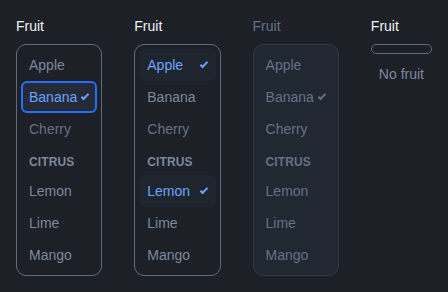
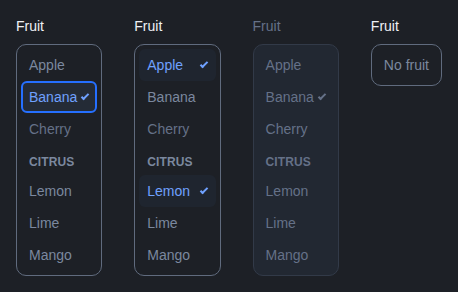
fix(styles): an empty Listbox holds its empty text inside its box
The empty part sits outside the list, which a listbox may only fill with
options, so an empty Listbox drew a 10-pixel box with "No fruit" under
it. While the list is empty, the box (the list, or the scroller while
virtualized) and the empty part now take the same cell of the column,
under the label if there is one (`@uni-labelled`), so the box grows to
hold the text, inset as an option is. A click on the text reaches the
list. Browser tests measure it labelled and virtualized without a label;
the Listbox references changed only there.

diff --git a/packages/styles/src/__snapshots__/listbox.css b/packages/styles/src/__snapshots__/listbox.css
@@ -73,7 +73,7 @@
   [data-uni="listbox"]:where(:not([data-disabled])) [data-element="GroupLabel"]:where(:not([data-uni="listbox"] [data-uni]:not([data-uni="listbox"]) *)) { color: var(--uni-text-soft-color); --current-color: var(--uni-text-soft-color); }
 }
 
-[data-uni="listbox"] [data-element="Empty"]:where(:not([data-uni="listbox"] [data-uni]:not([data-uni="listbox"]) *)) { margin: 0px; padding: calc(calc(var(--uni-control-height) - var(--uni-line-height)) / 2) var(--uni-gap); font-size: var(--uni-font-size); line-height: var(--uni-line-height); }
+[data-uni="listbox"] [data-element="Empty"]:where(:not([data-uni="listbox"] [data-uni]:not([data-uni="listbox"]) *)) { margin: calc(calc(0.5 * var(--uni-gap)) + var(--uni-border-width)); padding: calc(calc(var(--uni-control-height) - var(--uni-line-height)) / 2) var(--uni-gap); font-size: var(--uni-font-size); line-height: var(--uni-line-height); pointer-events: none; }
 
 @media (not (forced-colors: active)) {
   [data-uni="listbox"]:where(:not([data-disabled])) [data-element="Empty"]:where(:not([data-uni="listbox"] [data-uni]:not([data-uni="listbox"]) *)) { color: var(--uni-text-soft-color); --current-color: var(--uni-text-soft-color); }
@@ -101,6 +101,10 @@
   [data-uni="listbox"]:where([data-focus-visible][data-virtualized]:not([data-invalid]):has([data-element="List"][tabindex="0"])) [data-element="Scroller"]:where(:not([data-uni="listbox"] [data-uni]:not([data-uni="listbox"]) *)) { outline: var(--uni-outline-width) solid var(--uni-accent-outline-color); outline-offset: var(--uni-border-width); }
 }
 
+[data-uni="listbox"]:where([data-empty]) [data-element="Scroller"]:where(:not([data-uni="listbox"] [data-uni]:not([data-uni="listbox"]) *)) { grid-column: 1; }
+
+[data-uni="listbox"]:where([data-empty]:not(:has(> [data-element="Label"]))) [data-element="Scroller"]:where(:not([data-uni="listbox"] [data-uni]:not([data-uni="listbox"]) *)) { grid-row: 1; }
+
 [data-uni="listbox"]:where([data-virtualized]) [data-element="List"]:where(:not([data-uni="listbox"] [data-uni]:not([data-uni="listbox"]) *)) { padding: 0px; }
 
 [data-uni="listbox"]:where([data-disabled]:not([data-virtualized])) [data-element="List"]:where(:not([data-uni="listbox"] [data-uni]:not([data-uni="listbox"]) *)) { background-color: var(--uni-disabled-surface-color); border: var(--uni-border-width) solid var(--uni-disabled-border-color); }
@@ -110,6 +114,10 @@
 @media (not (forced-colors: active)) {
   [data-uni="listbox"]:where([data-focus-visible]:not([data-invalid]):not([data-virtualized]):has([data-element="List"][tabindex="0"])) [data-element="List"]:where(:not([data-uni="listbox"] [data-uni]:not([data-uni="listbox"]) *)) { outline: var(--uni-outline-width) solid var(--uni-accent-outline-color); outline-offset: var(--uni-border-width); }
 }
+
+[data-uni="listbox"]:where([data-empty]) [data-element="List"]:where(:not([data-uni="listbox"] [data-uni]:not([data-uni="listbox"]) *)) { grid-column: 1; }
+
+[data-uni="listbox"]:where([data-empty]:not(:has(> [data-element="Label"]))) [data-element="List"]:where(:not([data-uni="listbox"] [data-uni]:not([data-uni="listbox"]) *)) { grid-row: 1; }
 
 [data-uni="listbox"] [data-element="Option"]:where(:not([data-uni="listbox"] [data-uni]:not([data-uni="listbox"]) *)):where(:not([data-disabled]):not([data-selected]):not([data-pressed])[data-focused]), [data-uni="listbox"]:where([data-readonly]) [data-element="Option"]:where(:not([data-uni="listbox"] [data-uni]:not([data-uni="listbox"]) *)):where(:not([data-disabled]):not([data-selected])[data-pressed][data-focused]), [data-uni="listbox"]:where(:not([data-readonly])) [data-element="Option"]:where(:not([data-uni="listbox"] [data-uni]:not([data-uni="listbox"]) *)):where(:not([data-disabled]):not([data-focused]):not([data-pressed]):not([data-selected])[data-hovered]) { background-color: var(--uni-surface-hover-color); }
 
@@ -133,6 +141,10 @@
   [data-uni="listbox"]:where([data-disabled]) [data-element="Empty"]:where(:not([data-uni="listbox"] [data-uni]:not([data-uni="listbox"]) *)) { color: var(--uni-disabled-text-color); --current-color: var(--uni-disabled-text-color); }
 }
 
+[data-uni="listbox"]:where([data-empty]) [data-element="Empty"]:where(:not([data-uni="listbox"] [data-uni]:not([data-uni="listbox"]) *)) { grid-column: 1; }
+
+[data-uni="listbox"]:where([data-empty]:not(:has(> [data-element="Label"]))) [data-element="Empty"]:where(:not([data-uni="listbox"] [data-uni]:not([data-uni="listbox"]) *)) { grid-row: 1; }
+
 @media (forced-colors: active) {
   [data-uni="listbox"]:where(:not([data-disabled])) [data-element="Label"]:where(:not([data-uni="listbox"] [data-uni]:not([data-uni="listbox"]) *)) { color: CanvasText; --current-color: CanvasText; }
 }
@@ -145,9 +157,13 @@
   [data-uni="listbox"]:where([data-focus-visible][data-invalid][data-virtualized]:has([data-element="List"][tabindex="0"])) [data-element="Scroller"]:where(:not([data-uni="listbox"] [data-uni]:not([data-uni="listbox"]) *)) { outline: var(--uni-outline-width) solid var(--uni-danger-outline-color); outline-offset: var(--uni-border-width); }
 }
 
+[data-uni="listbox"]:where([data-empty]:has(> [data-element="Label"])) [data-element="Scroller"]:where(:not([data-uni="listbox"] [data-uni]:not([data-uni="listbox"]) *)) { grid-row: 2; }
+
 @media (not (forced-colors: active)) {
   [data-uni="listbox"]:where([data-focus-visible][data-invalid]:not([data-virtualized]):has([data-element="List"][tabindex="0"])) [data-element="List"]:where(:not([data-uni="listbox"] [data-uni]:not([data-uni="listbox"]) *)) { outline: var(--uni-outline-width) solid var(--uni-danger-outline-color); outline-offset: var(--uni-border-width); }
 }
+
+[data-uni="listbox"]:where([data-empty]:has(> [data-element="Label"])) [data-element="List"]:where(:not([data-uni="listbox"] [data-uni]:not([data-uni="listbox"]) *)) { grid-row: 2; }
 
 [data-uni="listbox"]:where(:not([data-readonly])) [data-element="Option"]:where(:not([data-uni="listbox"] [data-uni]:not([data-uni="listbox"]) *)):where(:not([data-disabled]):not([data-selected])[data-pressed]) { background-color: var(--uni-surface-pressed-color); }
 
@@ -166,6 +182,8 @@
 @media (forced-colors: active) {
   [data-uni="listbox"]:where(:not([data-disabled])) [data-element="Empty"]:where(:not([data-uni="listbox"] [data-uni]:not([data-uni="listbox"]) *)) { color: CanvasText; --current-color: CanvasText; }
 }
+
+[data-uni="listbox"]:where([data-empty]:has(> [data-element="Label"])) [data-element="Empty"]:where(:not([data-uni="listbox"] [data-uni]:not([data-uni="listbox"]) *)) { grid-row: 2; }
 
 @media (forced-colors: active) {
   [data-uni="listbox"]:where([data-disabled]) [data-element="Label"]:where(:not([data-uni="listbox"] [data-uni]:not([data-uni="listbox"]) *)) { color: GrayText; --current-color: GrayText; }

diff --git a/packages/styles/src/pickers.browser.test.tsx b/packages/styles/src/pickers.browser.test.tsx
@@ -380,6 +380,21 @@ describe.each([
       expect(ring(part(root, 'List')).offset).toBe(1);
     });
 
+    test('an empty list holds its text in an option’s place, under the label', async () => {
+      const root = await adapter.listbox({ isEmpty: true });
+      const list = box(part(root, 'List'));
+      const text = box(part(root, 'Empty'));
+      // Inside the list's padding and border, 4 and 1 pixels.
+      expect(text.top - list.top).toBeCloseTo(5, 0);
+      expect(list.bottom - text.bottom).toBeCloseTo(5, 0);
+      expect(text.left - list.left).toBeCloseTo(5, 0);
+      expect(list.right - text.right).toBeCloseTo(5, 0);
+      expect(list.top - box(part(root, 'Label')).bottom).toBeCloseTo(8, 0);
+      // A click on the text reaches the list.
+      await pointer.click(part(root, 'Empty'));
+      expect(document.activeElement).toBe(part(root, 'List'));
+    });
+
     test('a disabled option takes the disabled text and no fill', async () => {
       const root = await adapter.listbox();
       const cherry = option(root, 'cherry');
@@ -570,9 +585,10 @@ describe('a virtualized listbox', () => {
     ));
   }
 
-  function VirtualListbox() {
+  /** With no label, so the list's box opens the column. */
+  function VirtualListbox(props: { items?: readonly Item[] }) {
     const list = useComponent(listbox, {
-      items: MANY,
+      items: props.items ?? MANY,
       virtualizer,
       itemSize: 32,
     });
@@ -583,6 +599,7 @@ describe('a virtualized listbox', () => {
             <Rows list={list} />
           </div>
         </div>
+        <p {...list.parts.empty}>No items</p>
       </div>
     );
   }
@@ -603,5 +620,15 @@ describe('a virtualized listbox', () => {
     expect(first.left - box(scroller).left).toBeCloseTo(5, 0);
     expect(first.width).toBeCloseTo(box(list).width, 0);
     expect(first.height).toBeCloseTo(32, 0);
+  });
+
+  test('empty, its text is inside the scroller, which opens the column', async () => {
+    await mountReact(<VirtualListbox items={[]} />);
+    const root = rootOf('listbox');
+    const scroller = box(part(root, 'Scroller'));
+    const text = box(part(root, 'Empty'));
+    expect(scroller.top).toBeCloseTo(box(root).top, 0);
+    expect(text.top - scroller.top).toBeCloseTo(5, 0);
+    expect(scroller.bottom - text.bottom).toBeCloseTo(5, 0);
   });
 });

diff --git a/packages/styles/src/components/listbox.ts b/packages/styles/src/components/listbox.ts
@@ -58,6 +58,18 @@ function onlyWhen(state: string, styles: Styles): Styles {
 }
 
 /**
+ * While the list is empty, the empty part shows inside its box, in an
+ * option's place: the box (the list, or the scroller while virtualized)
+ * and the empty part take the same cell of the column, under the label if
+ * there is one, so the box grows to hold the text. A click on the text
+ * reaches the list, which then takes focus.
+ */
+const emptyCellStyles = {
+  gridColumn: { '': false, empty: '1' },
+  gridRow: { '': false, empty: '1', 'empty & @uni-labelled': '2' },
+} satisfies Styles;
+
+/**
  * Listbox: the shared column (`../shared/field.ts`) with the list as its
  * box, and the shared options (`../shared/option.ts`). Virtualized, the
  * scroller is the box, and the list inside it only holds the options
@@ -74,10 +86,14 @@ export const listboxStyles: Styles = {
   Scroller: {
     // eslint-disable-next-line tasty/no-style-spread -- the list's box, here while virtualized
     ...onlyWhen('virtualized', listBoxStyles),
+    // eslint-disable-next-line tasty/no-style-spread -- the empty part's cell
+    ...emptyCellStyles,
   },
   List: {
     // eslint-disable-next-line tasty/no-style-spread -- the list's box, on the scroller while virtualized
     ...onlyWhen('!virtualized', listBoxStyles),
+    // eslint-disable-next-line tasty/no-style-spread -- the empty part's cell
+    ...emptyCellStyles,
     display: 'block',
     margin: 0,
     padding: { '': '.5x', virtualized: 0 },
@@ -85,4 +101,14 @@ export const listboxStyles: Styles = {
   },
 
   ...optionPartStyles,
+
+  Empty: {
+    // eslint-disable-next-line tasty/no-style-spread -- the shared empty state
+    ...optionPartStyles.Empty,
+    // eslint-disable-next-line tasty/no-style-spread -- the box's cell
+    ...emptyCellStyles,
+    // Inside the box's padding and border.
+    margin: '(.5x + 1bw)',
+    pointerEvents: 'none',
+  },
 };

diff --git a/packages/styles/src/tokens.ts b/packages/styles/src/tokens.ts
@@ -62,6 +62,8 @@ export const STATES = {
   '@uni-list-tab-stop': ':has(List[tabindex="0"])',
   // An overlay with an arrow, which needs its overflow.
   '@uni-arrowed': ':has(> Arrow)',
+  // A field with its own label, over what it names.
+  '@uni-labelled': ':has(> Label)',
   '@uni-reduced-motion': '@media(prefers-reduced-motion: reduce)',
   '@uni-forced-colors': '@media(forced-colors: active)',
 } as const;

diff --git a/packages/styles/spec.md b/packages/styles/spec.md
@@ -557,24 +557,24 @@ logical properties, `color-mix()`, `oklch()`, `prefers-color-scheme`,
 
 All 16, each in its own file and stylesheet:
 
-| Component     | Parts styled                                                                                                      | Notes                                                                                                                                                                                                                                                                                                                                                                                                                                                                                                                     |
-| ------------- | ----------------------------------------------------------------------------------------------------------------- | ------------------------------------------------------------------------------------------------------------------------------------------------------------------------------------------------------------------------------------------------------------------------------------------------------------------------------------------------------------------------------------------------------------------------------------------------------------------------------------------------------------------------- |
-| Button        | root                                                                                                              | `data-variant`: `secondary` (default), `primary`, `quiet`, `danger` (Resolved questions 10).                                                                                                                                                                                                                                                                                                                                                                                                                              |
-| ToggleButton  | root                                                                                                              | Button's look; `selected` takes the accent fill whatever the variant, where UI Kit's light tint would show it mostly by hue (WCAG 1.4.1).                                                                                                                                                                                                                                                                                                                                                                                 |
-| Checkbox      | root, wrapper, input, indicator, label, description, error                                                        | The input is laid over the wrapper (or a `label` root), invisible and clickable, as in the Styling guide. Check and dash drawn on `::before`.                                                                                                                                                                                                                                                                                                                                                                             |
-| Switch        | as Checkbox                                                                                                       | The indicator is UI Kit's 32 by 20 track; your `Thumb` element, a 12-pixel dot, slides inside it by logical inset, so it mirrors in right-to-left text.                                                                                                                                                                                                                                                                                                                                                                   |
-| Radio         | root, wrapper, input, indicator, label, description                                                               | UI Kit's 16-pixel circle, with an 8-pixel dot in the accent text color while selected.                                                                                                                                                                                                                                                                                                                                                                                                                                    |
-| CheckboxGroup | root, label, description, error                                                                                   | Stacks the items; `data-orientation="horizontal"`, which the consumer writes on this group, wraps them in a row.                                                                                                                                                                                                                                                                                                                                                                                                          |
-| RadioGroup    | root, label, description, error                                                                                   | As CheckboxGroup; UniAria writes `data-orientation` from `orientation`.                                                                                                                                                                                                                                                                                                                                                                                                                                                   |
-| Field         | root, label, control, description, error                                                                          | The label, description and error fragment every field shares. Only a native text control (an `input` you type in, a `textarea`, a `select`) takes the input box.                                                                                                                                                                                                                                                                                                                                                          |
-| TextField     | root, wrapper, label, input, description, error                                                                   | The wrapper is the box: border, a ring on any focus within it, the `invalid` border, 7 pixels inside its border and 4 between what it holds, so your prefix or suffix sits beside the input. The input is bare inside it; without a wrapper there is no box (Field draws one around a native input).                                                                                                                                                                                                                      |
-| NumberField   | root, wrapper, label, input, increment, decrement, description, error                                             | TextField's box, with the number at the input's end. The steppers are quiet 24-pixel buttons beside the input in markup order, where UI Kit's stacked half-height ones would fall below the 24-pixel target; at the box's edge, as far from it as from the top and bottom.                                                                                                                                                                                                                                                |
-| Listbox       | root, label, scroller, list, option, optionLabel, optionDescription, group, groupLabel, empty, description, error | The list is a box like a field's, the scroller instead while virtualized, with a ring only while the list itself has focus. Options, shared with Select and Combobox: 32-pixel rows of soft text, `#uni-surface-hover` hovered or focused, pressed darker, the accent theme and a check at the end once selected (UI Kit's neutral selected fill is alpha, Web platform baseline), a ring inside on `focus-visible`, no hover or press while read-only, no `display`, no margins.                                         |
-| Select        | root, label, trigger, value, popover, arrow, scroller, list, the option parts, empty, close, description, error   | The trigger is a field box with a chevron, lighter hovered, its ring on `focus-visible`; `placeholder` dims the value. The popup: UI Kit's surface, `min-inline-size: var(--anchor-width)`, capped by `--available-width` and `--available-height` and at UI Kit's half viewport, a gap's margin, its list scrolling inside, `display` only while open or exiting. `close` stays visually hidden until it has focus. The popup opens with the overlay motion (Overlay motion).                                            |
-| Combobox      | root, label, anchor, input, button, popover, arrow, scroller, list, the option parts, empty, description, error   | The anchor is TextField's box around the input and the button, which is NumberField's quiet button drawing a chevron; the popup as Select's.                                                                                                                                                                                                                                                                                                                                                                              |
-| Dialog        | trigger, root, `::backdrop`, title, description, close                                                            | UI Kit's modal: a surface panel 22.5rem wide, from 18rem, within the viewport less 32 pixels a side, `fit-content` high and scrolling inside, its parts a column 12 pixels apart and in from its edge, an 18/24 title, a transparent border for forced colors; `display` only while open or exiting. The trigger and close take Button's look, close on its own state. It fades in and drops 24 pixels into place from `entering`, back on `exiting`, with the backdrop fading, in `$uni-dialog-transition`.              |
-| Popover       | trigger, root, arrow, title, description, close                                                                   | The popup surface, its parts a column 8 pixels apart and 12 in from its edge, a 1x margin all round (the gap, and room from the viewport, Overlays guide), capped by `--available-width` and `--available-height`; it scrolls unless it has an arrow (`@uni-arrowed`). The arrow part turns in quarter turns by its `placement`, keeping the box UniAria measures, and `::before` draws the turned square. It fades in and grows from .9 along the placement axis, from its trigger's side, in `$uni-overlay-transition`. |
-| Tooltip       | root, arrow                                                                                                       | The default fill, UI Kit's 12/18 text, at most `min(20rem, var(--available-width))`, a 1x margin all round, a transparent border for forced colors; the arrow in the fill. The overlay motion, at .8 instead of .9. `data-instant` (warm-up) skips it.                                                                                                                                                                                                                                                                    |
+| Component     | Parts styled                                                                                                      | Notes                                                                                                                                                                                                                                                                                                                                                                                                                                                                                                                                                                         |
+| ------------- | ----------------------------------------------------------------------------------------------------------------- | ----------------------------------------------------------------------------------------------------------------------------------------------------------------------------------------------------------------------------------------------------------------------------------------------------------------------------------------------------------------------------------------------------------------------------------------------------------------------------------------------------------------------------------------------------------------------------- |
+| Button        | root                                                                                                              | `data-variant`: `secondary` (default), `primary`, `quiet`, `danger` (Resolved questions 10).                                                                                                                                                                                                                                                                                                                                                                                                                                                                                  |
+| ToggleButton  | root                                                                                                              | Button's look; `selected` takes the accent fill whatever the variant, where UI Kit's light tint would show it mostly by hue (WCAG 1.4.1).                                                                                                                                                                                                                                                                                                                                                                                                                                     |
+| Checkbox      | root, wrapper, input, indicator, label, description, error                                                        | The input is laid over the wrapper (or a `label` root), invisible and clickable, as in the Styling guide. Check and dash drawn on `::before`.                                                                                                                                                                                                                                                                                                                                                                                                                                 |
+| Switch        | as Checkbox                                                                                                       | The indicator is UI Kit's 32 by 20 track; your `Thumb` element, a 12-pixel dot, slides inside it by logical inset, so it mirrors in right-to-left text.                                                                                                                                                                                                                                                                                                                                                                                                                       |
+| Radio         | root, wrapper, input, indicator, label, description                                                               | UI Kit's 16-pixel circle, with an 8-pixel dot in the accent text color while selected.                                                                                                                                                                                                                                                                                                                                                                                                                                                                                        |
+| CheckboxGroup | root, label, description, error                                                                                   | Stacks the items; `data-orientation="horizontal"`, which the consumer writes on this group, wraps them in a row.                                                                                                                                                                                                                                                                                                                                                                                                                                                              |
+| RadioGroup    | root, label, description, error                                                                                   | As CheckboxGroup; UniAria writes `data-orientation` from `orientation`.                                                                                                                                                                                                                                                                                                                                                                                                                                                                                                       |
+| Field         | root, label, control, description, error                                                                          | The label, description and error fragment every field shares. Only a native text control (an `input` you type in, a `textarea`, a `select`) takes the input box.                                                                                                                                                                                                                                                                                                                                                                                                              |
+| TextField     | root, wrapper, label, input, description, error                                                                   | The wrapper is the box: border, a ring on any focus within it, the `invalid` border, 7 pixels inside its border and 4 between what it holds, so your prefix or suffix sits beside the input. The input is bare inside it; without a wrapper there is no box (Field draws one around a native input).                                                                                                                                                                                                                                                                          |
+| NumberField   | root, wrapper, label, input, increment, decrement, description, error                                             | TextField's box, with the number at the input's end. The steppers are quiet 24-pixel buttons beside the input in markup order, where UI Kit's stacked half-height ones would fall below the 24-pixel target; at the box's edge, as far from it as from the top and bottom.                                                                                                                                                                                                                                                                                                    |
+| Listbox       | root, label, scroller, list, option, optionLabel, optionDescription, group, groupLabel, empty, description, error | The list is a box like a field's, the scroller instead while virtualized, with a ring only while the list itself has focus. Empty, it holds the empty part in an option's place: both take the same cell of the column. Options, shared with Select and Combobox: 32-pixel rows of soft text, `#uni-surface-hover` hovered or focused, pressed darker, the accent theme and a check at the end once selected (UI Kit's neutral selected fill is alpha, Web platform baseline), a ring inside on `focus-visible`, no hover or press while read-only, no `display`, no margins. |
+| Select        | root, label, trigger, value, popover, arrow, scroller, list, the option parts, empty, close, description, error   | The trigger is a field box with a chevron, lighter hovered, its ring on `focus-visible`; `placeholder` dims the value. The popup: UI Kit's surface, `min-inline-size: var(--anchor-width)`, capped by `--available-width` and `--available-height` and at UI Kit's half viewport, a gap's margin, its list scrolling inside, `display` only while open or exiting. `close` stays visually hidden until it has focus. The popup opens with the overlay motion (Overlay motion).                                                                                                |
+| Combobox      | root, label, anchor, input, button, popover, arrow, scroller, list, the option parts, empty, description, error   | The anchor is TextField's box around the input and the button, which is NumberField's quiet button drawing a chevron; the popup as Select's.                                                                                                                                                                                                                                                                                                                                                                                                                                  |
+| Dialog        | trigger, root, `::backdrop`, title, description, close                                                            | UI Kit's modal: a surface panel 22.5rem wide, from 18rem, within the viewport less 32 pixels a side, `fit-content` high and scrolling inside, its parts a column 12 pixels apart and in from its edge, an 18/24 title, a transparent border for forced colors; `display` only while open or exiting. The trigger and close take Button's look, close on its own state. It fades in and drops 24 pixels into place from `entering`, back on `exiting`, with the backdrop fading, in `$uni-dialog-transition`.                                                                  |
+| Popover       | trigger, root, arrow, title, description, close                                                                   | The popup surface, its parts a column 8 pixels apart and 12 in from its edge, a 1x margin all round (the gap, and room from the viewport, Overlays guide), capped by `--available-width` and `--available-height`; it scrolls unless it has an arrow (`@uni-arrowed`). The arrow part turns in quarter turns by its `placement`, keeping the box UniAria measures, and `::before` draws the turned square. It fades in and grows from .9 along the placement axis, from its trigger's side, in `$uni-overlay-transition`.                                                     |
+| Tooltip       | root, arrow                                                                                                       | The default fill, UI Kit's 12/18 text, at most `min(20rem, var(--available-width))`, a 1x margin all round, a transparent border for forced colors; the arrow in the fill. The overlay motion, at .8 instead of .9. `data-instant` (warm-up) skips it.                                                                                                                                                                                                                                                                                                                        |
 
 - Every interactive part keeps a target of at least 24 by 24 CSS pixels
   (WCAG 2.5.8): a checkbox's target is its overlaid input, which covers
